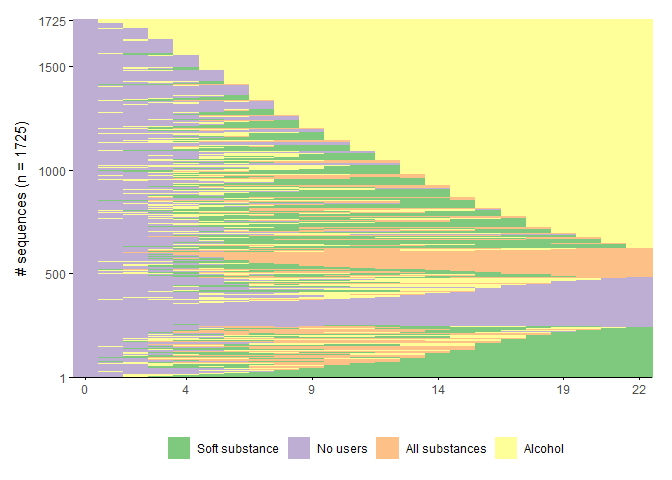
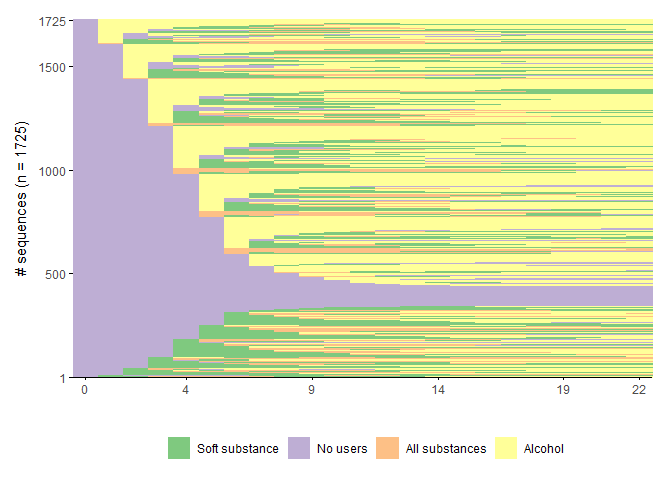
small up hmm

diff --git a/tutorials/12_HMM_depmixS4_cat.md b/tutorials/12_HMM_depmixS4_cat.md
@@ -1,40 +1,27 @@
-HMM with depmixS4 (categorical indicators)
-================
+# HMM with depmixS4 (categorical indicators)
 Mauricio Garnier-Villarreal
-2/6/23
+2024-01-30
 
-- <a href="#hidden-markov-models-hmm"
-  id="toc-hidden-markov-models-hmm">Hidden Markov Models (HMM)</a>
-  - <a href="#markov-assumption" id="toc-markov-assumption">Markov
-    assumption</a>
-  - <a href="#measurement-model" id="toc-measurement-model">Measurement
-    model</a>
-  - <a href="#structural-model" id="toc-structural-model">Structural
-    model</a>
-- <a href="#depmixs4" id="toc-depmixs4"><code>depmixS4</code></a>
-- <a href="#dichotomous-indicator-example"
-  id="toc-dichotomous-indicator-example">Dichotomous indicator example</a>
-  - <a href="#depmixs4-syntax"
-    id="toc-depmixs4-syntax"><code>depmixS4</code> syntax</a>
-    - <a href="#time-variant-hmm" id="toc-time-variant-hmm">Time variant
-      HMM</a>
-  - <a href="#class-enumeration" id="toc-class-enumeration">Class
-    enumeration</a>
-    - <a href="#model-fit-indices" id="toc-model-fit-indices">Model Fit
-      Indices</a>
-  - <a href="#time-varying-hmm" id="toc-time-varying-hmm">Time varying
-    HMM</a>
-    - <a href="#classification-diagnostics"
-      id="toc-classification-diagnostics">Classification Diagnostics</a>
-    - <a href="#conditional-transition-matrices"
-      id="toc-conditional-transition-matrices">Conditional transition
-      matrices</a>
-    - <a href="#plotting-hmm" id="toc-plotting-hmm">Plotting HMM</a>
-      - <a href="#index-plot" id="toc-index-plot">Index plot</a>
-      - <a href="#density-plot" id="toc-density-plot">Density plot</a>
-      - <a href="#transition-probabilities"
-        id="toc-transition-probabilities">Transition probabilities</a>
-- <a href="#references" id="toc-references">References</a>
+- [Hidden Markov Models (HMM)](#hidden-markov-models-hmm)
+  - [Markov assumption](#markov-assumption)
+  - [Measurement model](#measurement-model)
+  - [Structural model](#structural-model)
+- [`depmixS4`](#depmixs4)
+- [Dichotomous indicator example](#dichotomous-indicator-example)
+  - [`depmixS4` syntax](#depmixs4-syntax)
+    - [Time variant HMM](#time-variant-hmm)
+  - [Class enumeration](#class-enumeration)
+    - [Model Fit Indices](#model-fit-indices)
+  - [Time varying HMM](#time-varying-hmm)
+    - [Classification Diagnostics](#classification-diagnostics)
+    - [Conditional transition
+      matrices](#conditional-transition-matrices)
+    - [Plotting HMM](#plotting-hmm)
+      - [Index plot](#index-plot)
+      - [Density plot](#density-plot)
+      - [Transition probabilities](#transition-probabilities)
+  - [Adding predictors](#adding-predictors)
+- [References](#references)
 
 # Hidden Markov Models (HMM)
 
@@ -607,6 +594,12 @@ representing the data equally well.
 
     [1] 0
 
+``` r
+llratio(hmm2_fit, hmm1_fit)
+```
+
+    log Likelihood ratio (chi^2): 387.11 (df=2), p=0.
+
 Based on these information we would argue that the HMM in this case
 should be time varying. So, in the following steps we will work with the
 time varying HMM. Note that here we are testing the relevance of time
@@ -849,7 +842,7 @@ ggplot(elbow_plot, aes(x = n_states, y = Value, group = IC))+
   theme_minimal()
 ```
 
-![](12_HMM_depmixS4_cat_files/figure-commonmark/unnamed-chunk-19-1.png)
+![](12_HMM_depmixS4_cat_files/figure-commonmark/unnamed-chunk-20-1.png)
 
 From these results we see a meaningful improvement at least up to 3
 classes, and relatively flat change after 4 classes. In practice you
@@ -1266,7 +1259,7 @@ pred_trans <- lapply(hmm4c_tv_fit@transition, predict)
 is(pred_trans)
 ```
 
-    [1] "list"         "vector"       "MxCharOrList" "MxListOrNull"
+    [1] "list"         "vector"       "MxListOrNull" "MxCharOrList"
 
 ``` r
 length(pred_trans)
@@ -1460,7 +1453,7 @@ dat3 <- pivot_wider(dat3, id_cols = c(id),
 head(dat3)
 ```
 
-    # A tibble: 6 x 24
+    # A tibble: 6 × 24
          id   `0`   `1`   `2`   `3`   `4`   `5`   `6`   `7`   `8`   `9`  `10`  `11`
       <dbl> <int> <int> <int> <int> <int> <int> <int> <int> <int> <int> <int> <int>
     1     1     2     2     4     4     4     4     1     1     1     3     3     3
@@ -1469,7 +1462,7 @@ head(dat3)
     4     4     2     2     2     2     2     1     1     3     3     3     3     3
     5     5     2     2     2     4     4     1     1     3     3     3     1     1
     6     6     2     2     1     1     3     3     3     1     1     1     1     1
-    # ... with 11 more variables: `12` <int>, `13` <int>, `14` <int>, `15` <int>,
+    # ℹ 11 more variables: `12` <int>, `13` <int>, `14` <int>, `15` <int>,
     #   `16` <int>, `17` <int>, `18` <int>, `19` <int>, `20` <int>, `21` <int>,
     #   `22` <int>
 
@@ -1503,7 +1496,7 @@ ggseqiplot(seq_pred,
           sortv="from.start")
 ```
 
-![](12_HMM_depmixS4_cat_files/figure-commonmark/unnamed-chunk-37-1.png)
+![](12_HMM_depmixS4_cat_files/figure-commonmark/unnamed-chunk-38-1.png)
 
 This plots is sorted by the states at the beginning, we can also sorted
 by the end. Now, we see that most subjects end up as alcohol users, some
@@ -1514,7 +1507,7 @@ ggseqiplot(seq_pred,
            sortv="from.end")
 ```
 
-![](12_HMM_depmixS4_cat_files/figure-commonmark/unnamed-chunk-38-1.png)
+![](12_HMM_depmixS4_cat_files/figure-commonmark/unnamed-chunk-39-1.png)
 
 You can sort the index plot in function on how you want to describe the
 results
@@ -1529,7 +1522,7 @@ predicted to be in each state
 ggseqdplot(seq_pred)
 ```
 
-![](12_HMM_depmixS4_cat_files/figure-commonmark/unnamed-chunk-39-1.png)
+![](12_HMM_depmixS4_cat_files/figure-commonmark/unnamed-chunk-40-1.png)
 
 We can also separate each state, and present each in separate rows or
 columns, with the `dissect` argument
@@ -1539,7 +1532,7 @@ ggseqdplot(seq_pred,
            dissect = "col")
 ```
 
-![](12_HMM_depmixS4_cat_files/figure-commonmark/unnamed-chunk-40-1.png)
+![](12_HMM_depmixS4_cat_files/figure-commonmark/unnamed-chunk-41-1.png)
 
 #### Transition probabilities
 
@@ -1575,7 +1568,7 @@ dat4$to <- car::recode(dat4$to,
 dat4
 ```
 
-    # A tibble: 368 x 4
+    # A tibble: 368 × 4
        time  from           to             transition
        <fct> <fct>          <chr>               <dbl>
      1 0     Soft substance Soft substance    0.649  
@@ -1588,7 +1581,7 @@ dat4
      8 0     No users       Alcohol           0.221  
      9 0     All substances Soft substance    0.0549 
     10 0     All substances No users          0.00230
-    # ... with 358 more rows
+    # ℹ 358 more rows
 
 Now, we can plot the transitions from each starting state (column
 `from`), to each outgoing state (column `to`), with this `ggplot2`
@@ -1602,7 +1595,7 @@ q + geom_bar(stat="identity") +
   scale_color_gradient()
 ```
 
-![](12_HMM_depmixS4_cat_files/figure-commonmark/unnamed-chunk-42-1.png)
+![](12_HMM_depmixS4_cat_files/figure-commonmark/unnamed-chunk-43-1.png)
 
 Not surprisingly, most subjects tend to stay in the state that they are,
 and if the transition probability to other state is low can be hard to
@@ -1618,10 +1611,12 @@ q2 + geom_bar(stat="identity") +
   scale_color_gradient()
 ```
 
-![](12_HMM_depmixS4_cat_files/figure-commonmark/unnamed-chunk-43-1.png)
+![](12_HMM_depmixS4_cat_files/figure-commonmark/unnamed-chunk-44-1.png)
 
 Now its easier to read the transition probabilities to move to another
 state
+
+## Adding predictors
 
 # References
 
